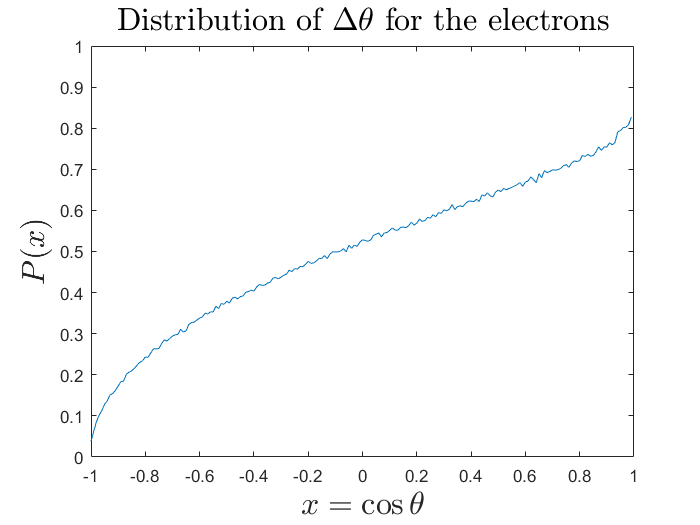
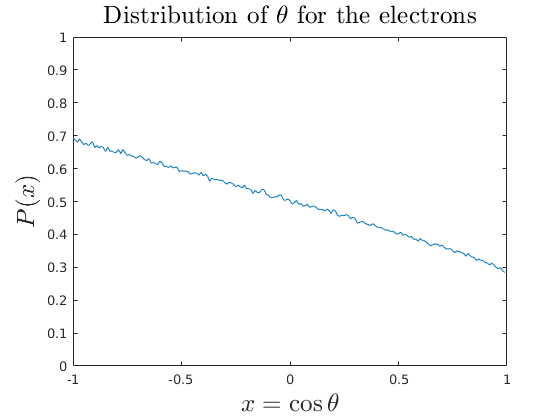
Fixed one of the figures in Task1 and revised the text a bit.

diff --git a/report/report.tex b/report/report.tex
@@ -28,16 +28,16 @@ where $m_e$ is the mass of a electron, $e$ is the elementary charge, $\hbar$ is 
 
 is compared to the unknown ground state wave function $\psi_0$, where $\alpha$ is a parameter to be optimized. To calculate the energy for this trial wave we need to integrate over the whole physical line in 6 dimensions. This cannot be done analytically and we need to use numerical approximation methods to evaluate the integral. We will use the variational Monte Carlo method using the Metropolis algorithm. For each state $(\mathbf{r_1},\mathbf{r_2})$ we thus have the \textit{local energy},
 \begin{equation}
-E_{L}(\mathbf{r}_1,\mathbf{r}_2)= \frac{\mathbf{H}\psi_T(\mathbf{r}_1,\mathbf{r}_2)}{\psi_T(\mathbf{r}_1,\mathbf{r}_2)}
+E_{L}(\mathbf{r}_1,\mathbf{r}_2)= \frac{\mathbf{H}\psi_L(\mathbf{r}_1,\mathbf{r}_2)}{\psi_L(\mathbf{r}_1,\mathbf{r}_2)}
 \end{equation}
 and the normalised probability to be in this state is,
 \begin{equation}
-\rho(\mathbf{r}_1,\mathbf{r}_2)=\frac{|\psi_T(\mathbf{r}_1,\mathbf{r}_2)|^2}{\int dr_1dr_2|\psi_T(\mathbf{r}_1,\mathbf{r}_2)|^2}.
+\rho(\mathbf{r}_1,\mathbf{r}_2)=\frac{|\psi_L(\mathbf{r}_1,\mathbf{r}_2)|^2}{\int dr_1dr_2|\psi_L(\mathbf{r}_1,\mathbf{r}_2)|^2}.
 \end{equation}
 
 This probability will never be calculated directly as we only need the relative probabilities from the current state to a new state,
 \begin{equation}
-\rho_{rel}(\mathbf{r'}_1,\mathbf{r'}_2,\mathbf{r}_1,\mathbf{r}_2)=\frac{|\psi_T(\mathbf{r'}_1,\mathbf{r}_2')|^2}{|\psi_T(\mathbf{r}_1,\mathbf{r}_2)|^2}.
+\rho_{rel}(\mathbf{r'}_1,\mathbf{r'}_2,\mathbf{r}_1,\mathbf{r}_2)=\frac{|\psi_L(\mathbf{r'}_1,\mathbf{r}_2')|^2}{|\psi_L(\mathbf{r}_1,\mathbf{r}_2)|^2}.
 \end{equation}
 
 
@@ -46,15 +46,15 @@ This probability will never be calculated directly as we only need the relative 
 \begin{figure}[H]
     \centering
     \captionsetup[subfigure]{justification=centering}
-    \begin{subfigure}[b]{0.45\textwidth}
+    \begin{subfigure}[b]{0.48\textwidth}
         \centering
         \includegraphics[width=\textwidth]{graphics/task1/radius.png}
     \end{subfigure}
-    \begin{subfigure}[b]{0.45\textwidth}
+    \begin{subfigure}[b]{0.48\textwidth}
         \centering
         \includegraphics[width=\textwidth]{graphics/task1/angle_diff_dist.png}
     \end{subfigure}
-    \caption{\textit{Left:} Simulated and calculated radial distribution function for the two electrons in the helium atom. \textit{Right:} The distribution of cosine of the relative $\theta$ angle for the two electrons.}
+    \caption{\textit{Left:} Simulated and calculated radial distribution function for the two electrons in the helium atom. \textit{Right:} The distribution of cosine of the angle $\theta$ between the two electrons.}
     \label{fig:RDF}
 \end{figure}
 
@@ -62,23 +62,24 @@ In this problem we studied a He atom using the variational Monte Carlo method wi
 
 From the obtained sample points, a radial probability distribution function could be approxiated, which can be seen in Fig.~\ref{fig:RDF} (left). Comparing the result to the variationally optimized distribution and the central field approximation result we conclude that that the results are the same as the variationally optimized distribution and that the method is working properly.
 
-Transforming these sample points to spherical coordinates we can study the correlation of the $\theta$ coordinates for the two electron. As stated in \cite{probdesc}, if they are uncorrelated, i.e. equally distributed over the unit sphere, then the probability distribution would be $P(\Delta \theta) = \sin (\Delta \theta) / 2$ for $0 < \Delta\theta < \pi$, or
+From these sample points we can also study the correlation of the angle between the two electrons, $\theta$. As stated in \cite{probdesc}, if they are uncorrelated, i.e. equally distributed over the unit sphere, then the probability distribution would be $P(\theta) = \sin \theta / 2$ for $0 < \theta < \pi$, or
 \begin{equation}
-	x = \cos \left|\theta_1 - \theta_2\right| \Rightarrow P(x) = \frac{1}{2},\quad -1 < x < 1.
+	x = \cos \theta \Rightarrow P(x) = \frac{1}{2},\quad -1 < x < 1.
 \end{equation}
 
-From the variational Monte Carlo we obtain the result in Fig.~\ref{fig:RDF}. This indicates a clear correlation where the electrons tend to be approximately the close together. At least a slight correlation is expected, however whether it should be this strongly correlated or not, we do not know.
+The variational Monte Carlo yields the results in Fig.~\ref{fig:RDF} (right). This indicates a clear correlation where the electrons tend to be approximately on the opposite side of the nucleus. At least a slight correlation is expected, however whether it should be this strongly correlated or not, we do not know.
+
 
 \section*{Problem 2}
 
 \begin{figure}[H]
 	\centering
 	\captionsetup[subfigure]{justification=centering}
-	\begin{subfigure}[b]{0.45\textwidth}
+	\begin{subfigure}[b]{0.48\textwidth}
 		\centering
 		\includegraphics[width=\textwidth]{graphics/task2/local_energy.png}
 	\end{subfigure}
-	\begin{subfigure}[b]{0.45\textwidth}
+	\begin{subfigure}[b]{0.48\textwidth}
 		\centering
 		\includegraphics[width=\textwidth]{graphics/task2/block_error.png}
 	\end{subfigure}
@@ -101,11 +102,11 @@ The results for using the block length can be seen in Fig.\ref{fig:block_error}(
 \begin{figure}[H]
 	\centering
 	\captionsetup[subfigure]{justification=centering}
-	\begin{subfigure}[b]{0.45\textwidth}
+	\begin{subfigure}[b]{0.48\textwidth}
 		\centering
 		\includegraphics[width=\textwidth]{graphics/task3/lowest_energy_indep_alpha.png}
 	\end{subfigure}
-	\begin{subfigure}[b]{0.45\textwidth}
+	\begin{subfigure}[b]{0.48\textwidth}
 		\centering
 		\includegraphics[width=\textwidth]{graphics/task3/lowest_energy_one_alpha_run.png}
 	\end{subfigure}
@@ -169,5 +170,6 @@ Using the $\alpha$ found in Problem 4, we do a long simulation in order to see w
 
 \subsection{\texttt{Task5/main.c}}
 \lstinputlisting[language=c, numbers=left]{../code/Task5/main.c}
+
 
 \end{document}

diff --git a/code/Task1/plot_angle_diff.m b/code/Task1/plot_angle_diff.m
@@ -11,5 +11,5 @@ axis([-1 1 0 1])
 
 xlabel('$x = \cos \theta$','interpreter','latex', 'fontsize', 19)
 ylabel('$P(x)$','interpreter','latex', 'fontsize', 19)
-title('Distribution of $\Delta \theta$ for the electrons',...
+title('Distribution of $\theta$ for the electrons',...
     'interpreter','latex', 'fontsize', 19)
